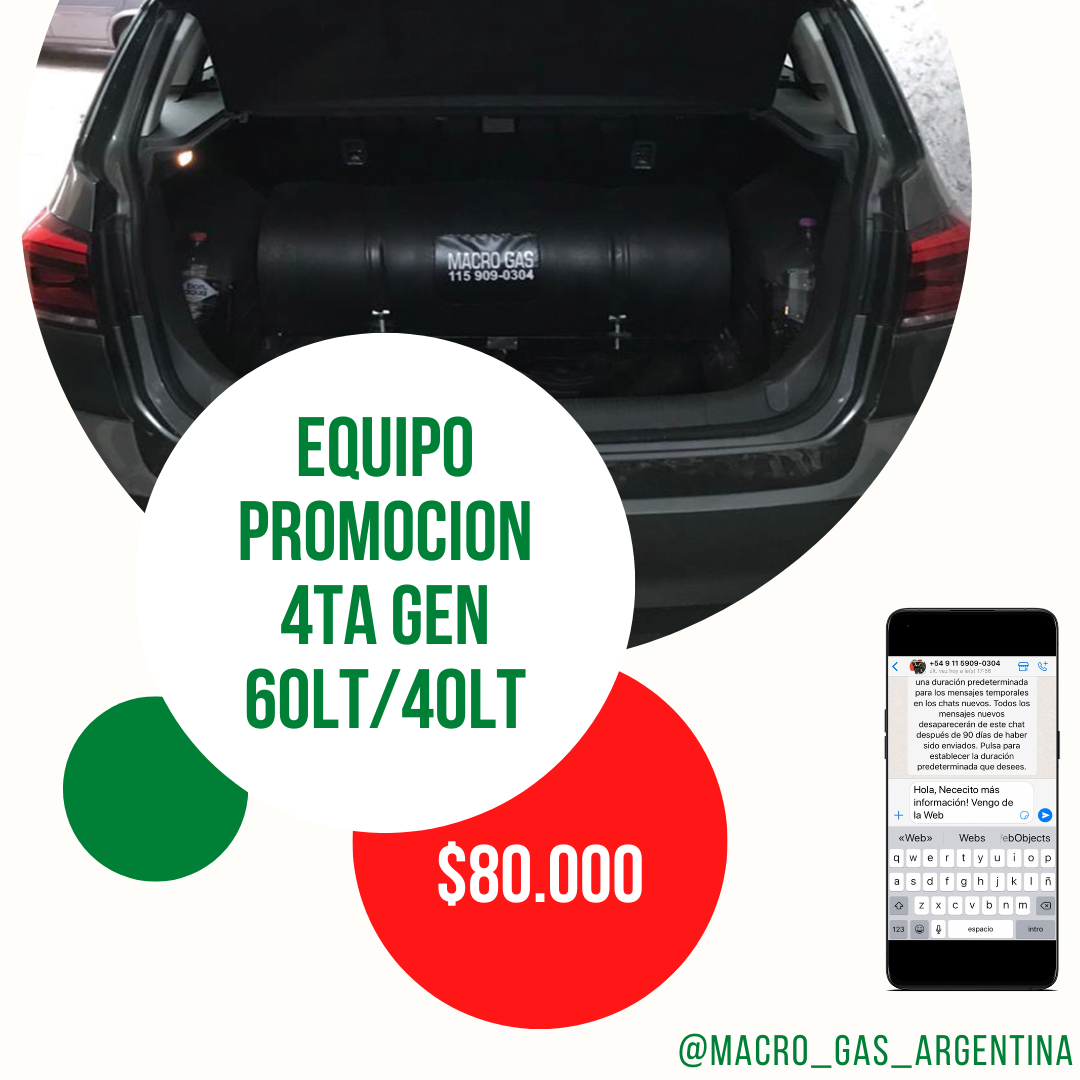
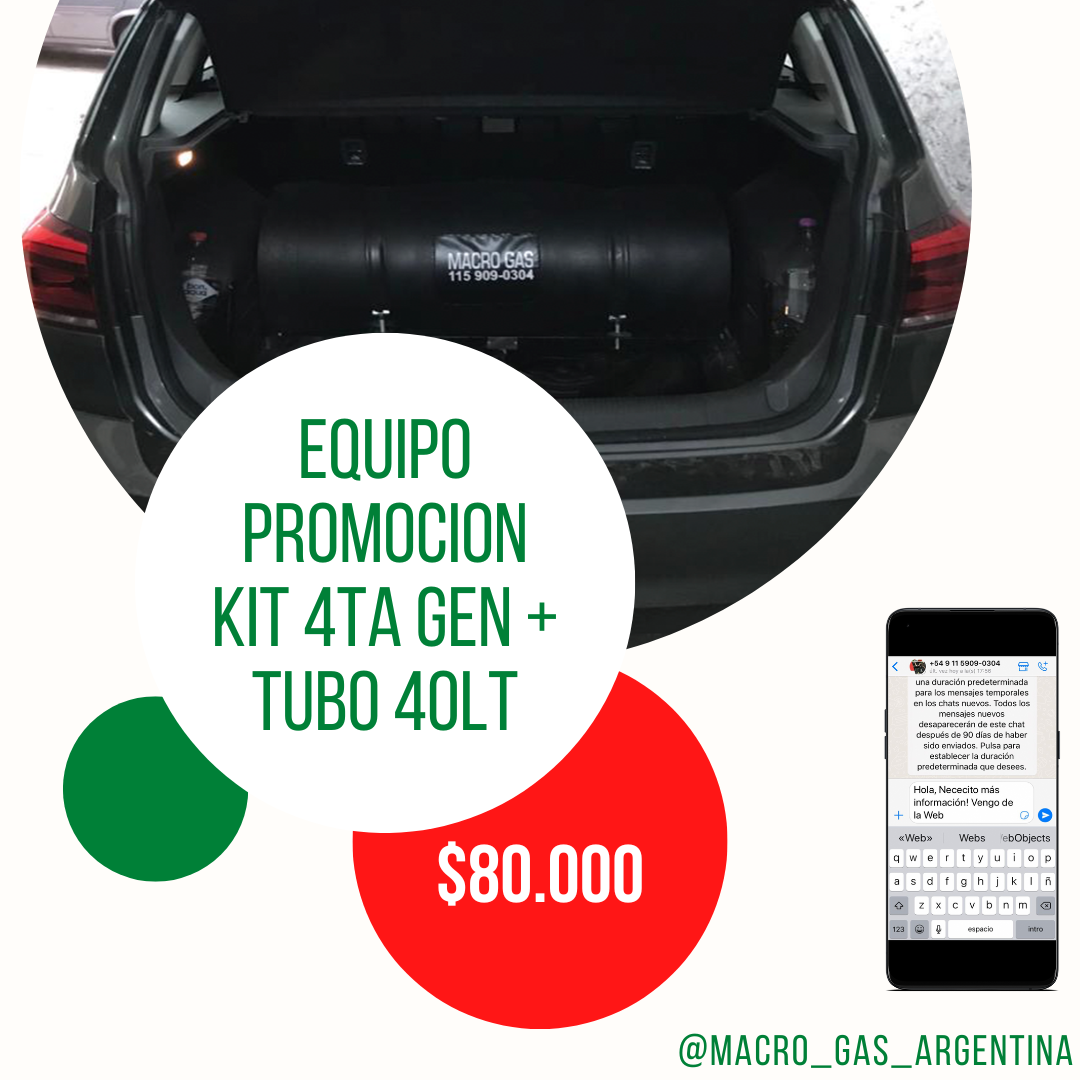
Terminaciones 4.1

Changed region(s): [[0.1833, 0.3667, 0.5194, 0.6722]]

diff --git a/index.html b/index.html
@@ -74,7 +74,7 @@
                 <h2 class="titulo" id="Promos">PROMOS</h2>
                 <div class="galeria-port">
                     <div class="imagen-port">
-                        <img src="img/promos/Promobajochasis5tax30lt.png" alt="5ta y 2 x30lt">
+                        <img src="img//promos/Promobajochasis5tax30lt.png" alt="5ta y 2 x30lt">
                         <div class="hover-galeria">        
                             <a href="https://api.whatsapp.com/send?phone=+5491159090304&text=Hola, Nececito más información sobre 5ta y 2x30lt! Vengo de la Web">
                                 <img src="img/whsp 1.png" alt="">
@@ -82,15 +82,23 @@
                         </div>
                     </div>
                     <div class="imagen-port">
+                        <img src="img/promos/EQUIPO PROMOCION Kit 5ta Gen + Tubo 60Lt.png" alt="5ta y 60lt">
+                        <div class="hover-galeria">                           
+                            <a href="https://api.whatsapp.com/send?phone=+5491159090304&text=Hola, Nececito más información sobre 5ta y 60lt! Vengo de la Web">
+                                <img src="img/whsp 1.png" alt="">  
+                            </a>
+                        </div>
+                    </div>
+                    <div class="imagen-port">
                         <img src="img/promos/EQUIPO PROMOCION Kit 5ta Gen + Tubo 40Lt.png" alt="5ta y 40lt">
                         <div class="hover-galeria">                          
-                            <a href="https://api.whatsapp.com/send?phone=+5491159090304&text=Hola, Nececito más información sobre 5ta y 40lt o 60lt! Vengo de la Web">
+                            <a href="https://api.whatsapp.com/send?phone=+5491159090304&text=Hola, Nececito más información sobre 5ta y 40lt! Vengo de la Web">
                                 <img src="img/whsp 1.png" alt="">   
                             </a>
                         </div>
                     </div>
                     <div class="imagen-port">
-                        <img src="img/promos/Promobajochasis4tax30lt.png" alt="4ta y 2 x30lt">
+                        <img src="img/promos/Promo bajo chasis 4ta x 30lt .png" alt="4ta y 2 x30lt">
                         <div class="hover-galeria">                      
                             <a href="https://api.whatsapp.com/send?phone=+5491159090304&text=Hola, Nececito más información sobre 4ta y 2x30lt! Vengo de la Web">
                                 <img src="img/whsp 1.png" alt="">
@@ -98,9 +106,17 @@
                         </div>
                     </div>
                     <div class="imagen-port">
-                        <img src="img/promos/EQUIPO PROMOCION Kit 4ta Gen + Tubo 40Lt.png" alt="4ta y 40lt">
+                        <img src="img/promos/EQUIPO PROMOCION Kit 4ta Gen + Tubo 60Lt.png" alt="4ta y 60lt">
                         <div class="hover-galeria">
-                            <a href="https://api.whatsapp.com/send?phone=+5491159090304&text=Hola, Nececito más información sobre 4ta y 40lt o 60lt! Vengo de la Web">
+                            <a href="https://api.whatsapp.com/send?phone=+5491159090304&text=Hola, Nececito más información sobre 4ta y 60lt! Vengo de la Web">
+                                <img src="img/whsp 1.png" alt="">
+                            </a>
+                        </div>
+                    </div>
+                    <div class="imagen-port">
+                        <img src="img//promos/EQUIPO PROMOCION Kit 4ta Gen + Tubo 40Lt.png" alt="4ta y 40lt">
+                        <div class="hover-galeria">
+                            <a href="https://api.whatsapp.com/send?phone=+5491159090304&text=Hola, Nececito más información sobre 4ta y 40lt! Vengo de la Web">
                                 <img src="img/whsp 1.png" alt="">
                             </a>
                         </div>
